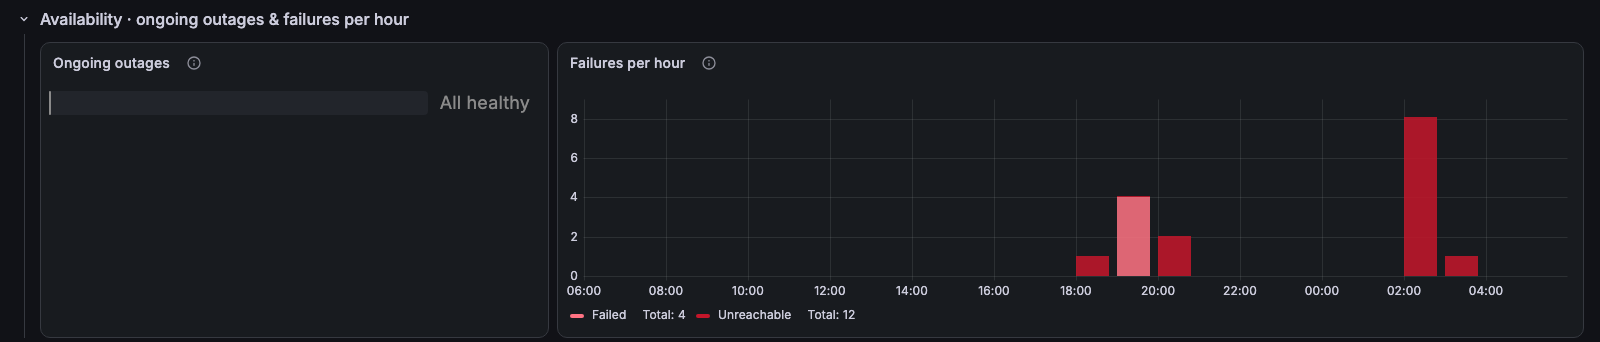
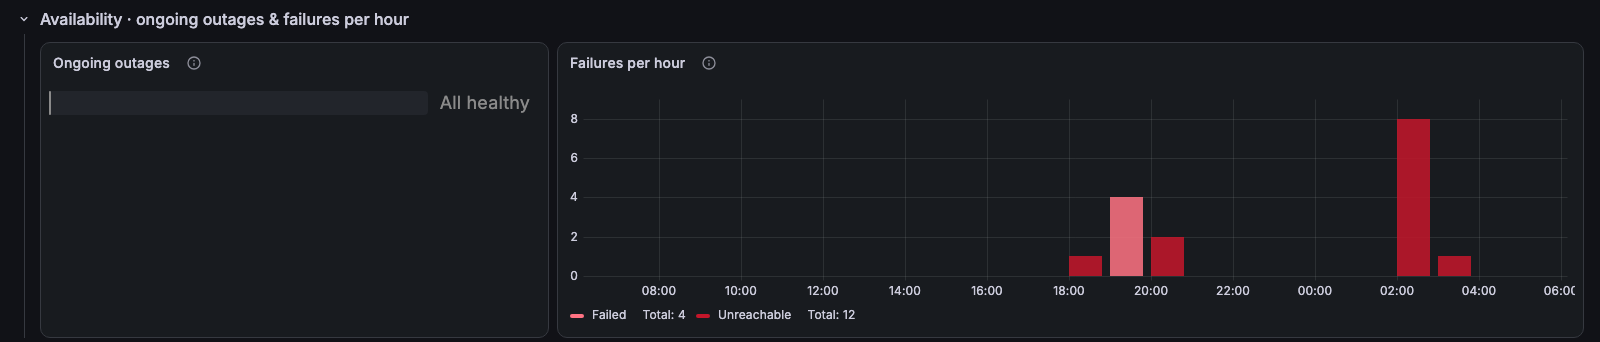
fix(gatus): count failures per minute
- Sum per-minute counter changes for every count. Tiles built from
  whole-hour buckets counted the wrong hours for ranges that don't start
  on the hour, and short ranges could read zero; per-minute sums follow
  the selected range to the minute.
- Counts stay right across config reloads and scrape gaps, tiles equal
  the sum of the hourly charts, and the unreachable split now matches
  HTTP status codes.
- Note that runtime panels stay deployment-wide, and correct the job
  exclusion reason.

diff --git a/gatus/AGENTS.md b/gatus/AGENTS.md
@@ -2,10 +2,11 @@
 
 Adds to the root AGENTS.md. Verified metric traps (Gatus v5, 2026-10-06):
 
-- **Lazily created counters:** every `gatus_results_*` counter (both `success` values, `connected`, each `code`) appears already at 1, so `increase()` drops the first event. Per hourly bucket `W = [$__interval] offset -$__interval`, count `(increase(x W) or min_over_time(x W) * 0) + ((min_over_time(x W) unless last_over_time(x[10m])) or min_over_time(x W) * 0)`. The left fallback keeps a series with one sample; the 10-minute lookback stops a brief scrape gap from counting a running total as new.
-- **Config reloads re-register every metric:** series vanish and come back from 0 with the same labels, so a range-wide `increase()` misses an event when a counter returns at its old value. Range tiles sum the hourly buckets with `sum_over_time(bucket[$__range:1h])`, which also keeps them equal to the hourly charts.
+- **Lazily created counters:** every `gatus_results_*` counter (both `success` values, `connected`, each `code`) appears already at 1, so `increase()` drops the first event.
+- **Config reloads re-register every metric:** series vanish and come back from 0 with the same labels, so `increase()` misses an event when a counter returns at its old value.
+- **Count per minute instead:** sum `x - x offset 1m >= 0 or x < x offset 1m or (x unless last_over_time(x[10m] offset 1m))` over `[$__range:1m]` for tiles and `[$__interval:1m] offset -$__interval` for hourly charts. A series with no sample in the prior 10 minutes counts from its value; one that returns within 10 minutes of a reload loses its first event. Tiles then equal the sum of the hourly charts, scrape gaps keep their increments, and counts are whole numbers.
 - External (push) endpoints have `type="UNKNOWN"` and no `results_connected_total`; their duration is 0 unless the pusher sends `duration`. Response time and unreachable counts exclude them.
-- `results_connected_total` only counts results that connected; unreachable checks are `results_total - results_connected_total`. A scrape gap at a bucket's start loses increments of counters that already existed, while a counter created in the gap counts in full, so that hour can overcount unreachable checks.
+- `results_connected_total` only counts results that connected; unreachable checks are `results_total - results_connected_total`. An HTTP check that gets a response also records its status code, so `results_code_total` cross-checks the split.
 - `results_duration_seconds`, `certificate_expiration_seconds` and `endpoint_success` are gauges of the latest check only.
 - A failed check records its timeout as its duration (10 s for ICMP). Response time keeps passing checks with `duration and endpoint_success == 1`.
 - Every Gatus restart starts new series. Pool durations across pods with `sum_over_time / count_over_time`; a per-pod `avg_over_time` lets one slow check on a short-lived pod top the ranking.

diff --git a/gatus/README.md b/gatus/README.md
@@ -26,7 +26,7 @@ Notes:
 - Prometheus 2.33 or later, for negative offsets.
 - Push endpoints only report a missed push when `heartbeat.interval` is set.
 - Domain expiry needs a `[DOMAIN_EXPIRATION]` condition on an endpoint.
-- The `group` and `endpoint` variables filter every panel; clicking an endpoint in **Failures by endpoint**, **Response time by endpoint** or **Ongoing outages** selects it.
+- The `group` and `endpoint` variables filter the endpoint panels; Runtime stays deployment-wide. Clicking an endpoint in **Failures by endpoint**, **Response time by endpoint** or **Ongoing outages** selects it.
 
 ## Collapsed rows
 
